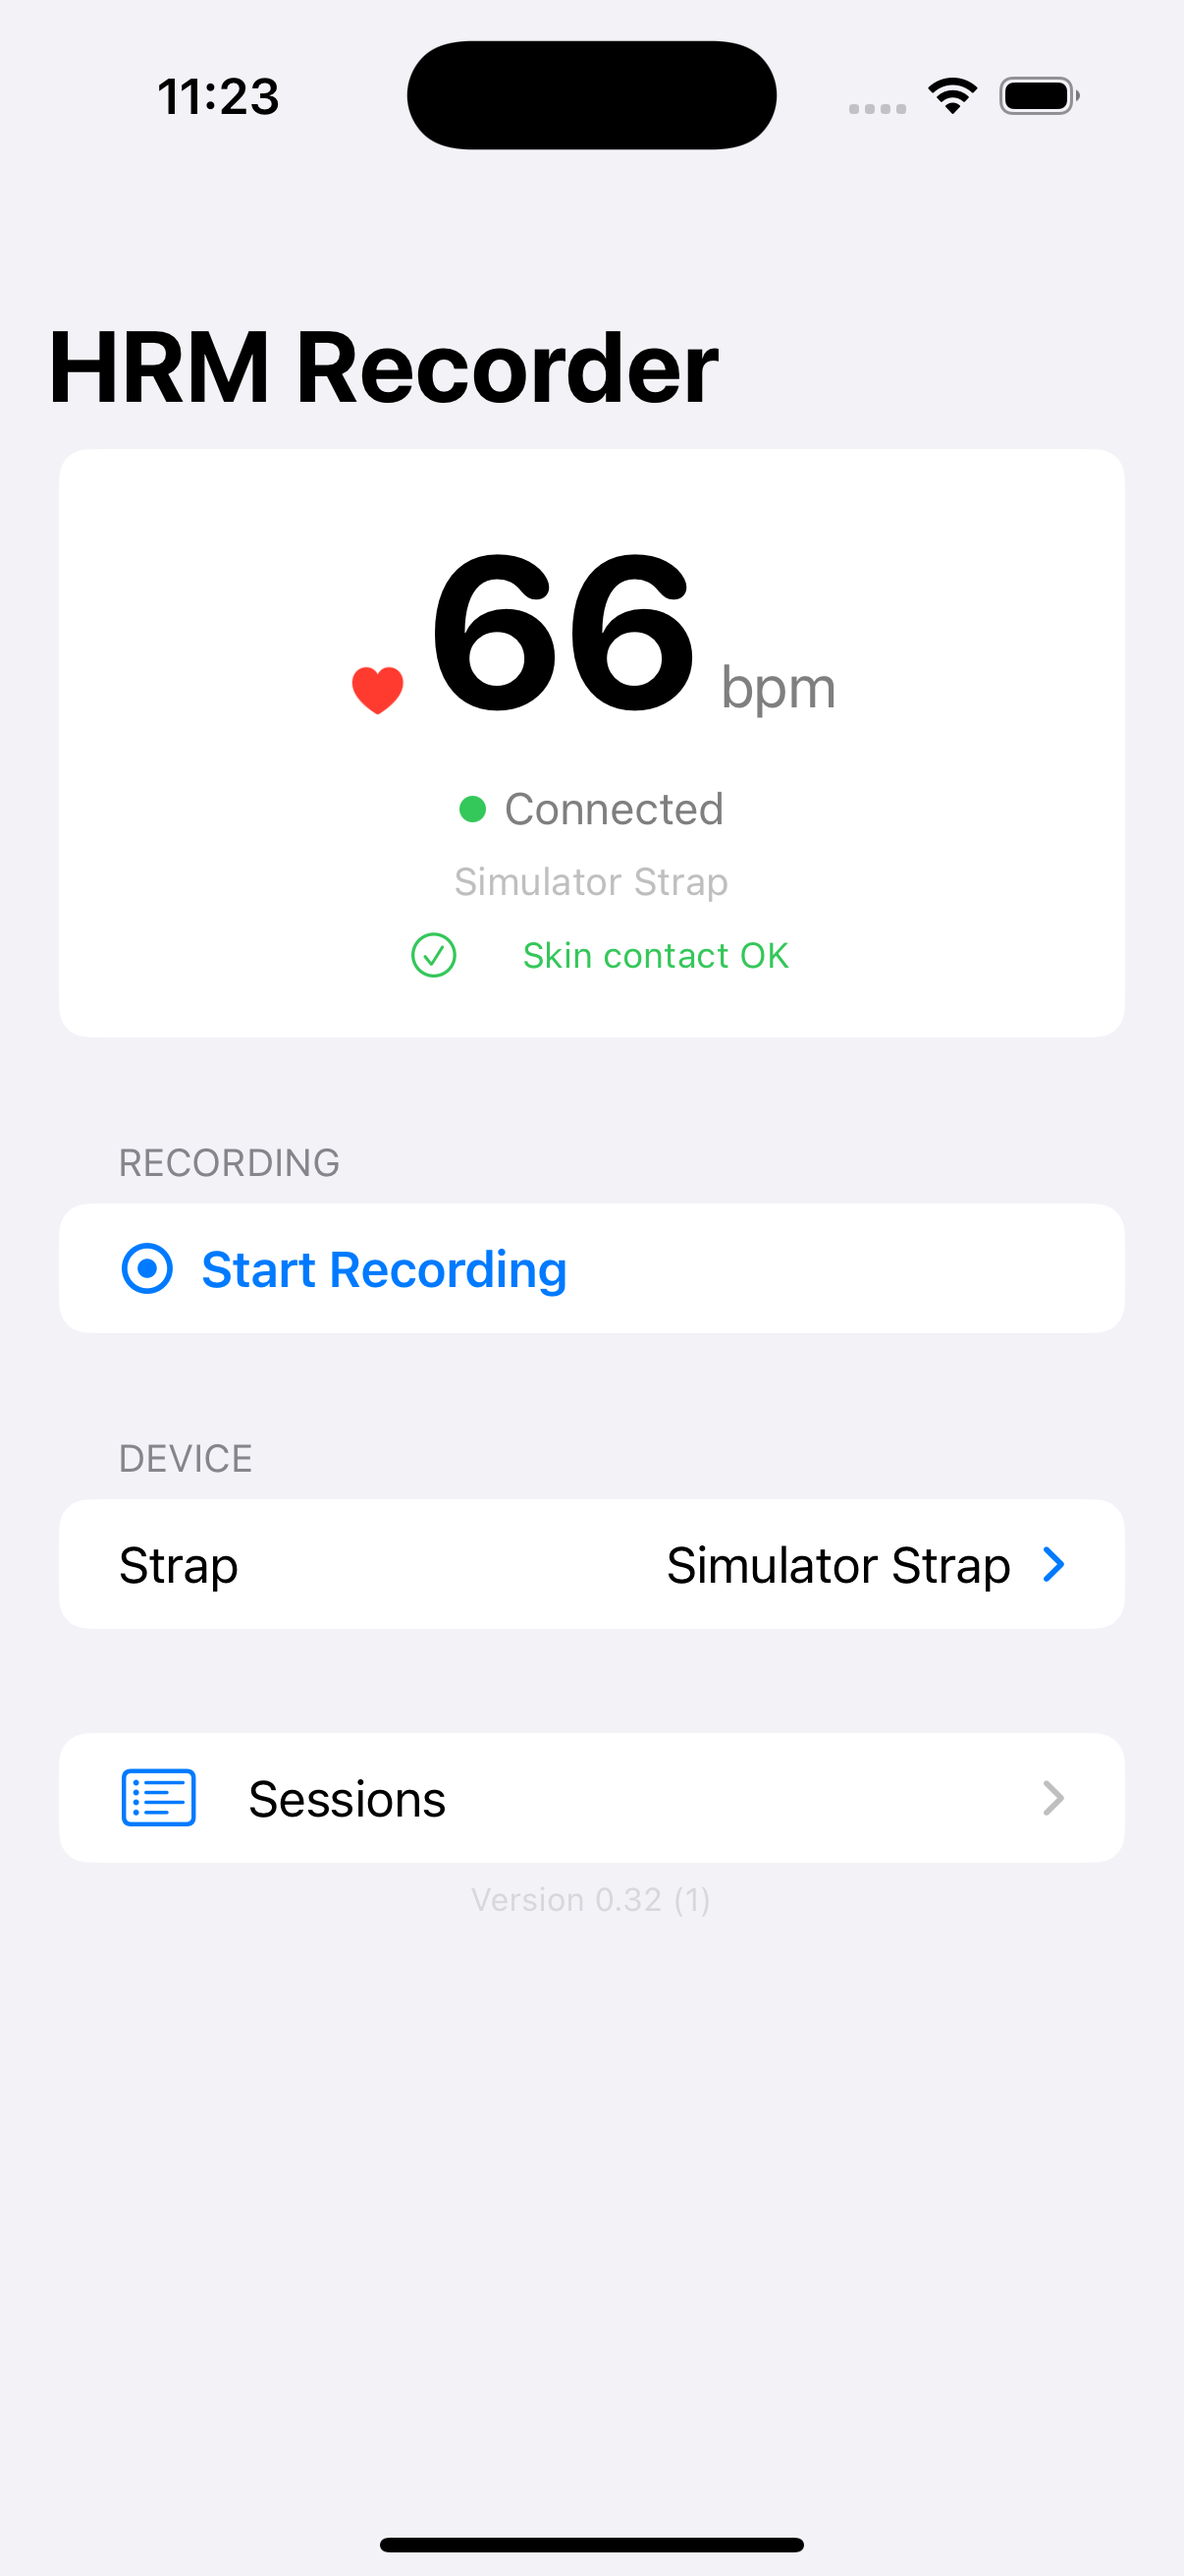
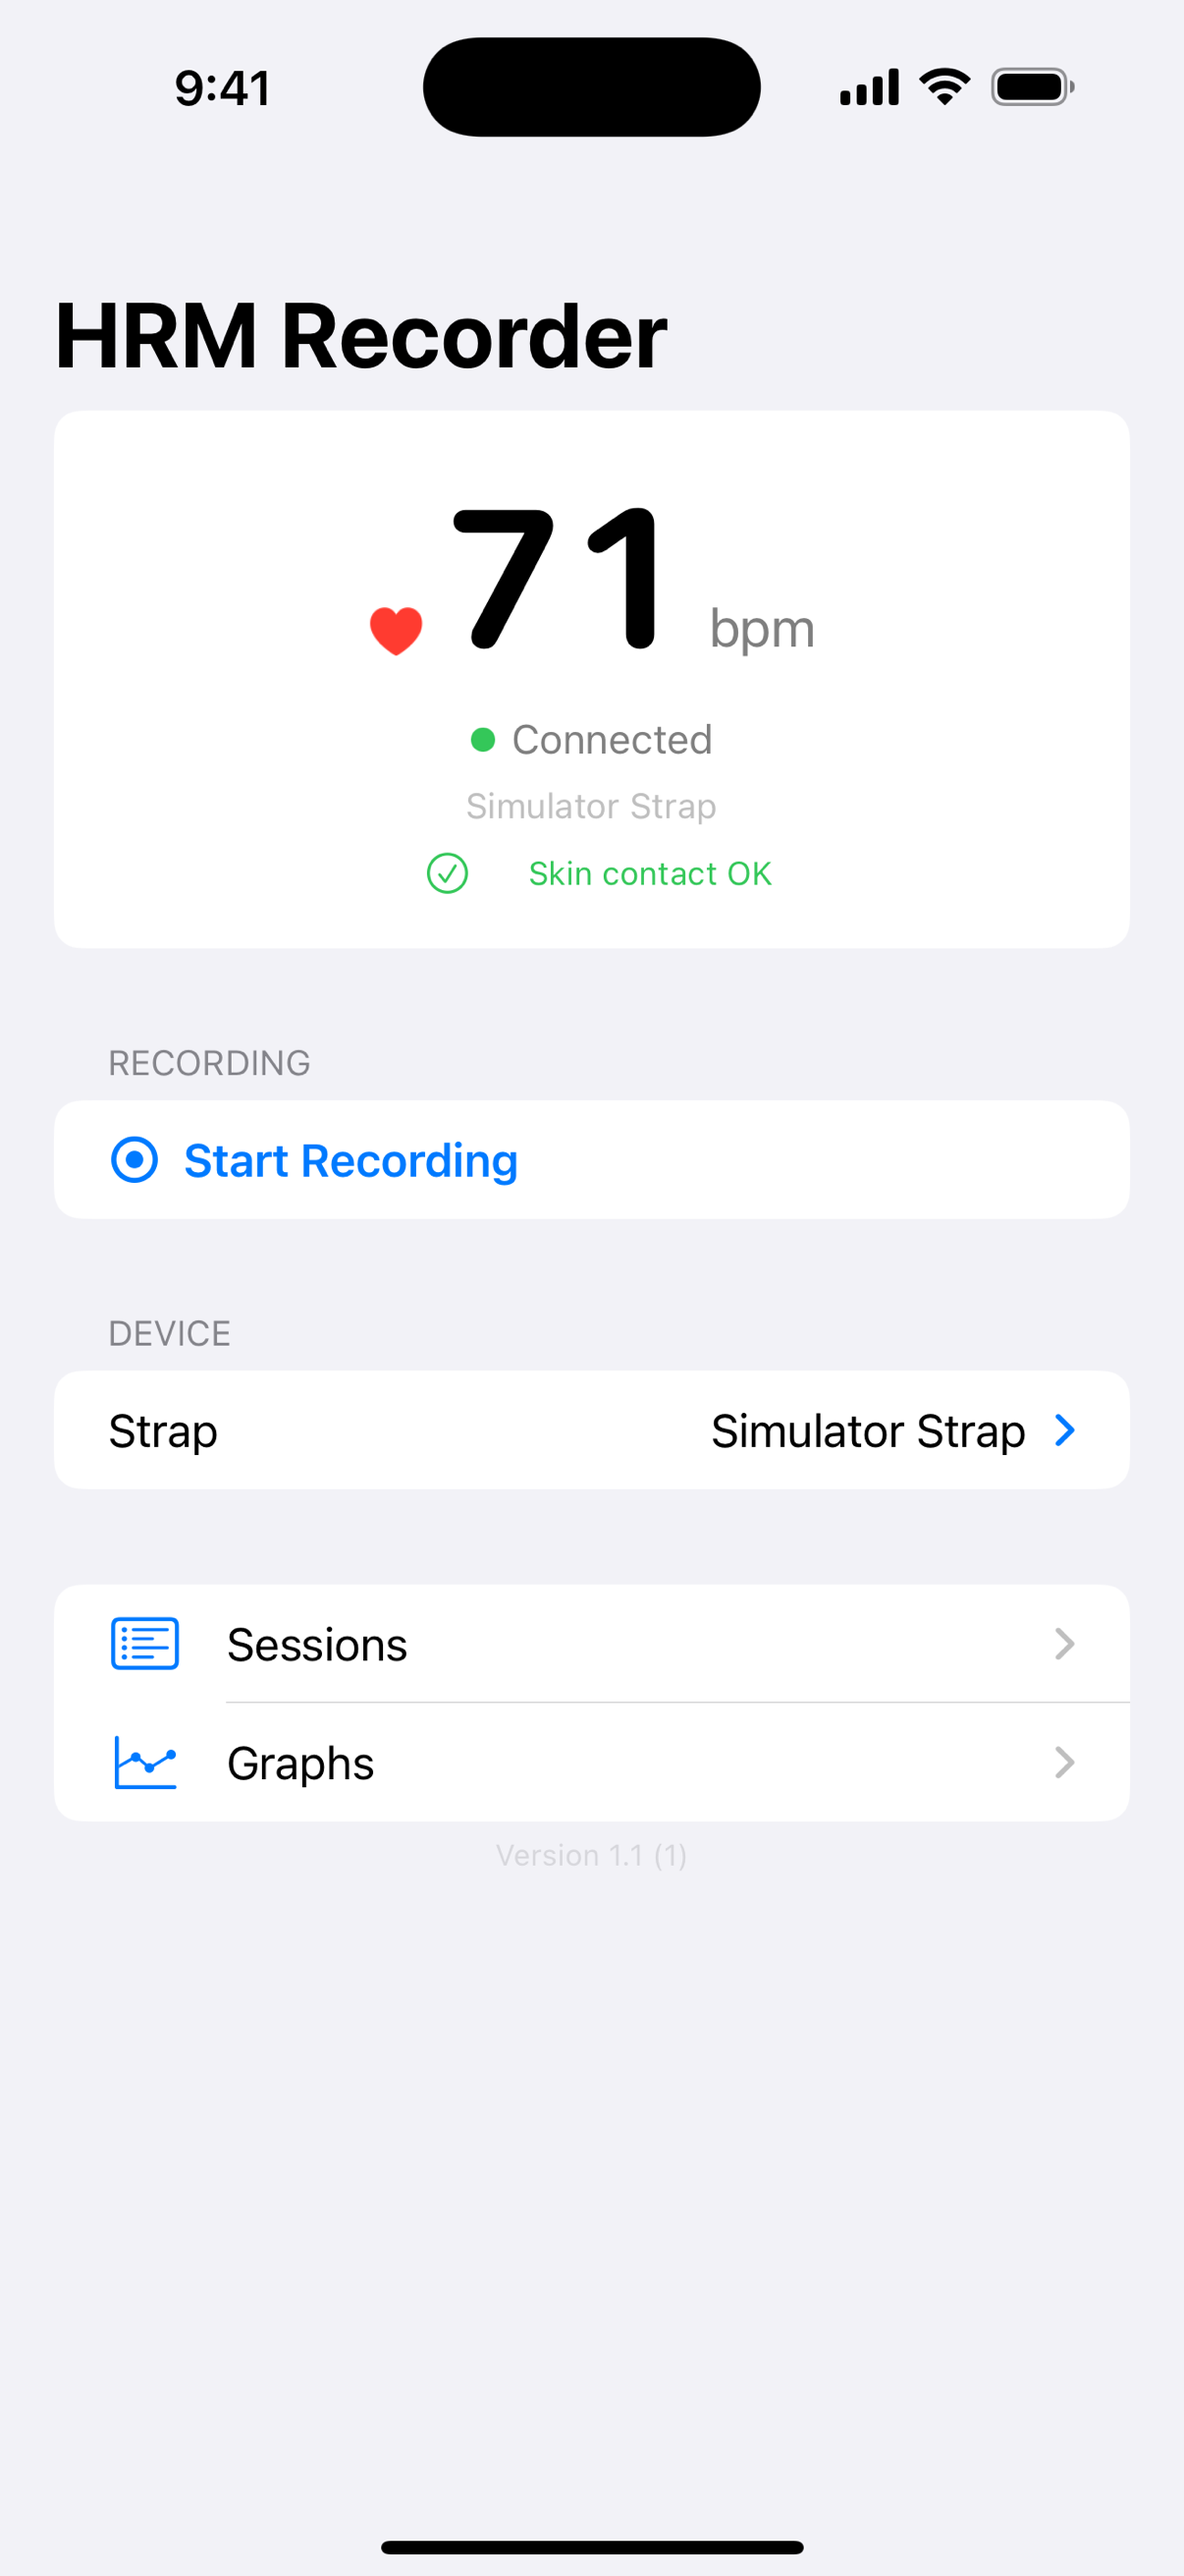
chore(website): refresh app screenshots to v1.1 with Graphs row (HRMRecorder-sk5) [AI]
Hero now shows 0:15:47 elapsed / 949 samples instead of 0:00:04 / v0.32;
home, picker, and sessions shots recaptured on the same v1.1 build.

diff --git a/website/index.html b/website/index.html
@@ -62,7 +62,7 @@
     <div class="phone">
       <div class="phone-screen">
         <img src="screenshots/recording.png"
-             alt="HRM Recorder mid-session: 66 BPM, elapsed 0:00:04, 5 samples saved, Stop Recording button, Simulator Strap connected."
+             alt="HRM Recorder mid-session: 69 BPM, elapsed 0:15:47, 949 samples saved, Stop Recording button, Simulator Strap connected."
              width="1206" height="2622" />
       </div>
     </div>
